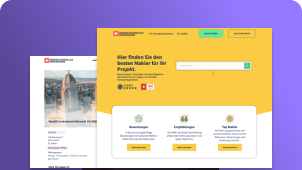
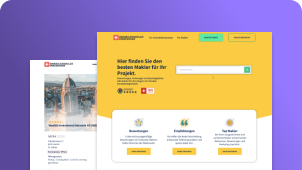
fixed responsive popup bug

Changed region(s): [[0.0894, 0.3235, 0.9238, 1.0], [0.3874, 0.3235, 0.8344, 0.5588], [0.3278, 0.1471, 0.894, 0.2647]]

diff --git a/src/components/ProjectPopup.jsx b/src/components/ProjectPopup.jsx
@@ -31,7 +31,7 @@ export default function ProjectPopup({projectId, handleProjectClick}) {
                                     </div>
                                 ))}
                             </div>
-                            <div className="flex  justify-between  gap-16">
+                            <div className="flex flex-col md:flex-row justify-between  gap-4 md:gap-16">
                                 <div>
                                     <div className="text-lg font-bold">Technology</div>
                                     <div className="mb-4">
